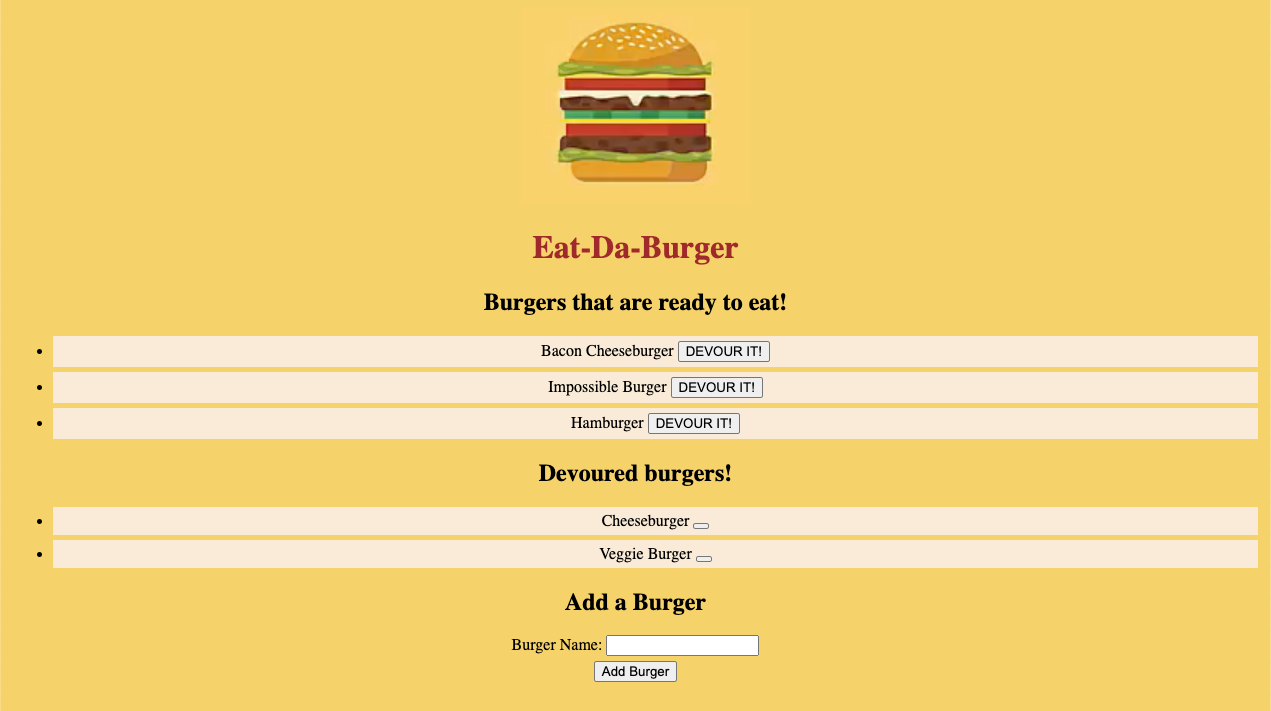
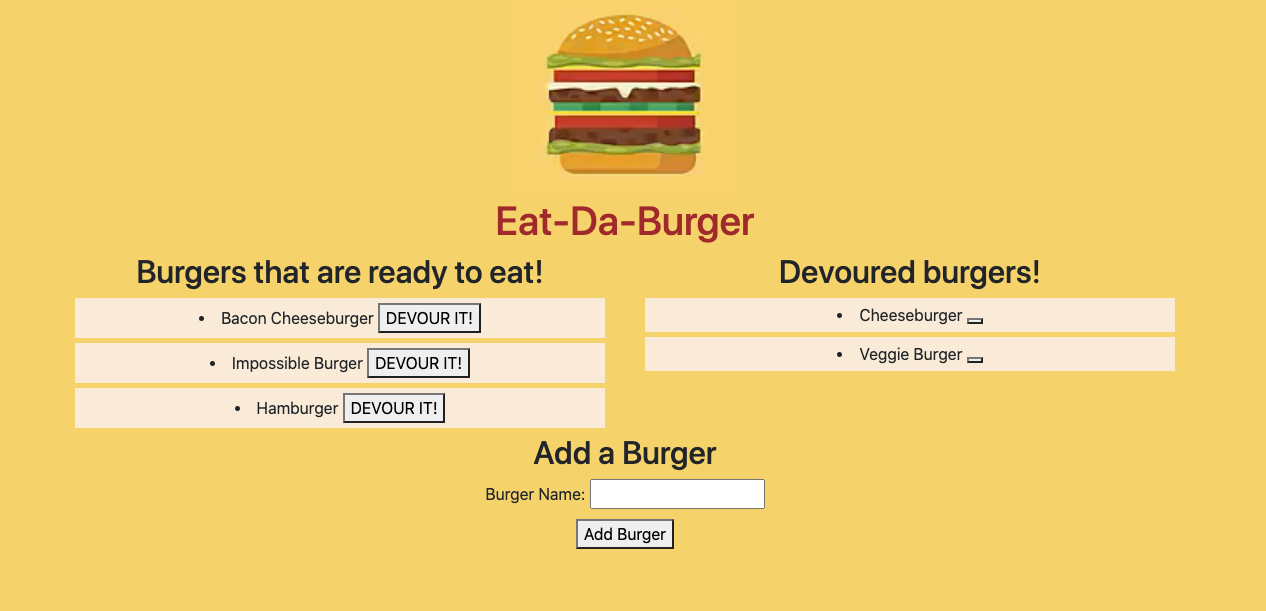
adde bootstrap

Changed region(s): [[0.0308, 0.0, 1.0, 0.964]]

diff --git a/public/assets/css/burger_style.css b/public/assets/css/burger_style.css
@@ -3,7 +3,7 @@ body {
   text-align: center;
 }
 
-h1 {
+h1, .img {
   color: brown;
 }
 
